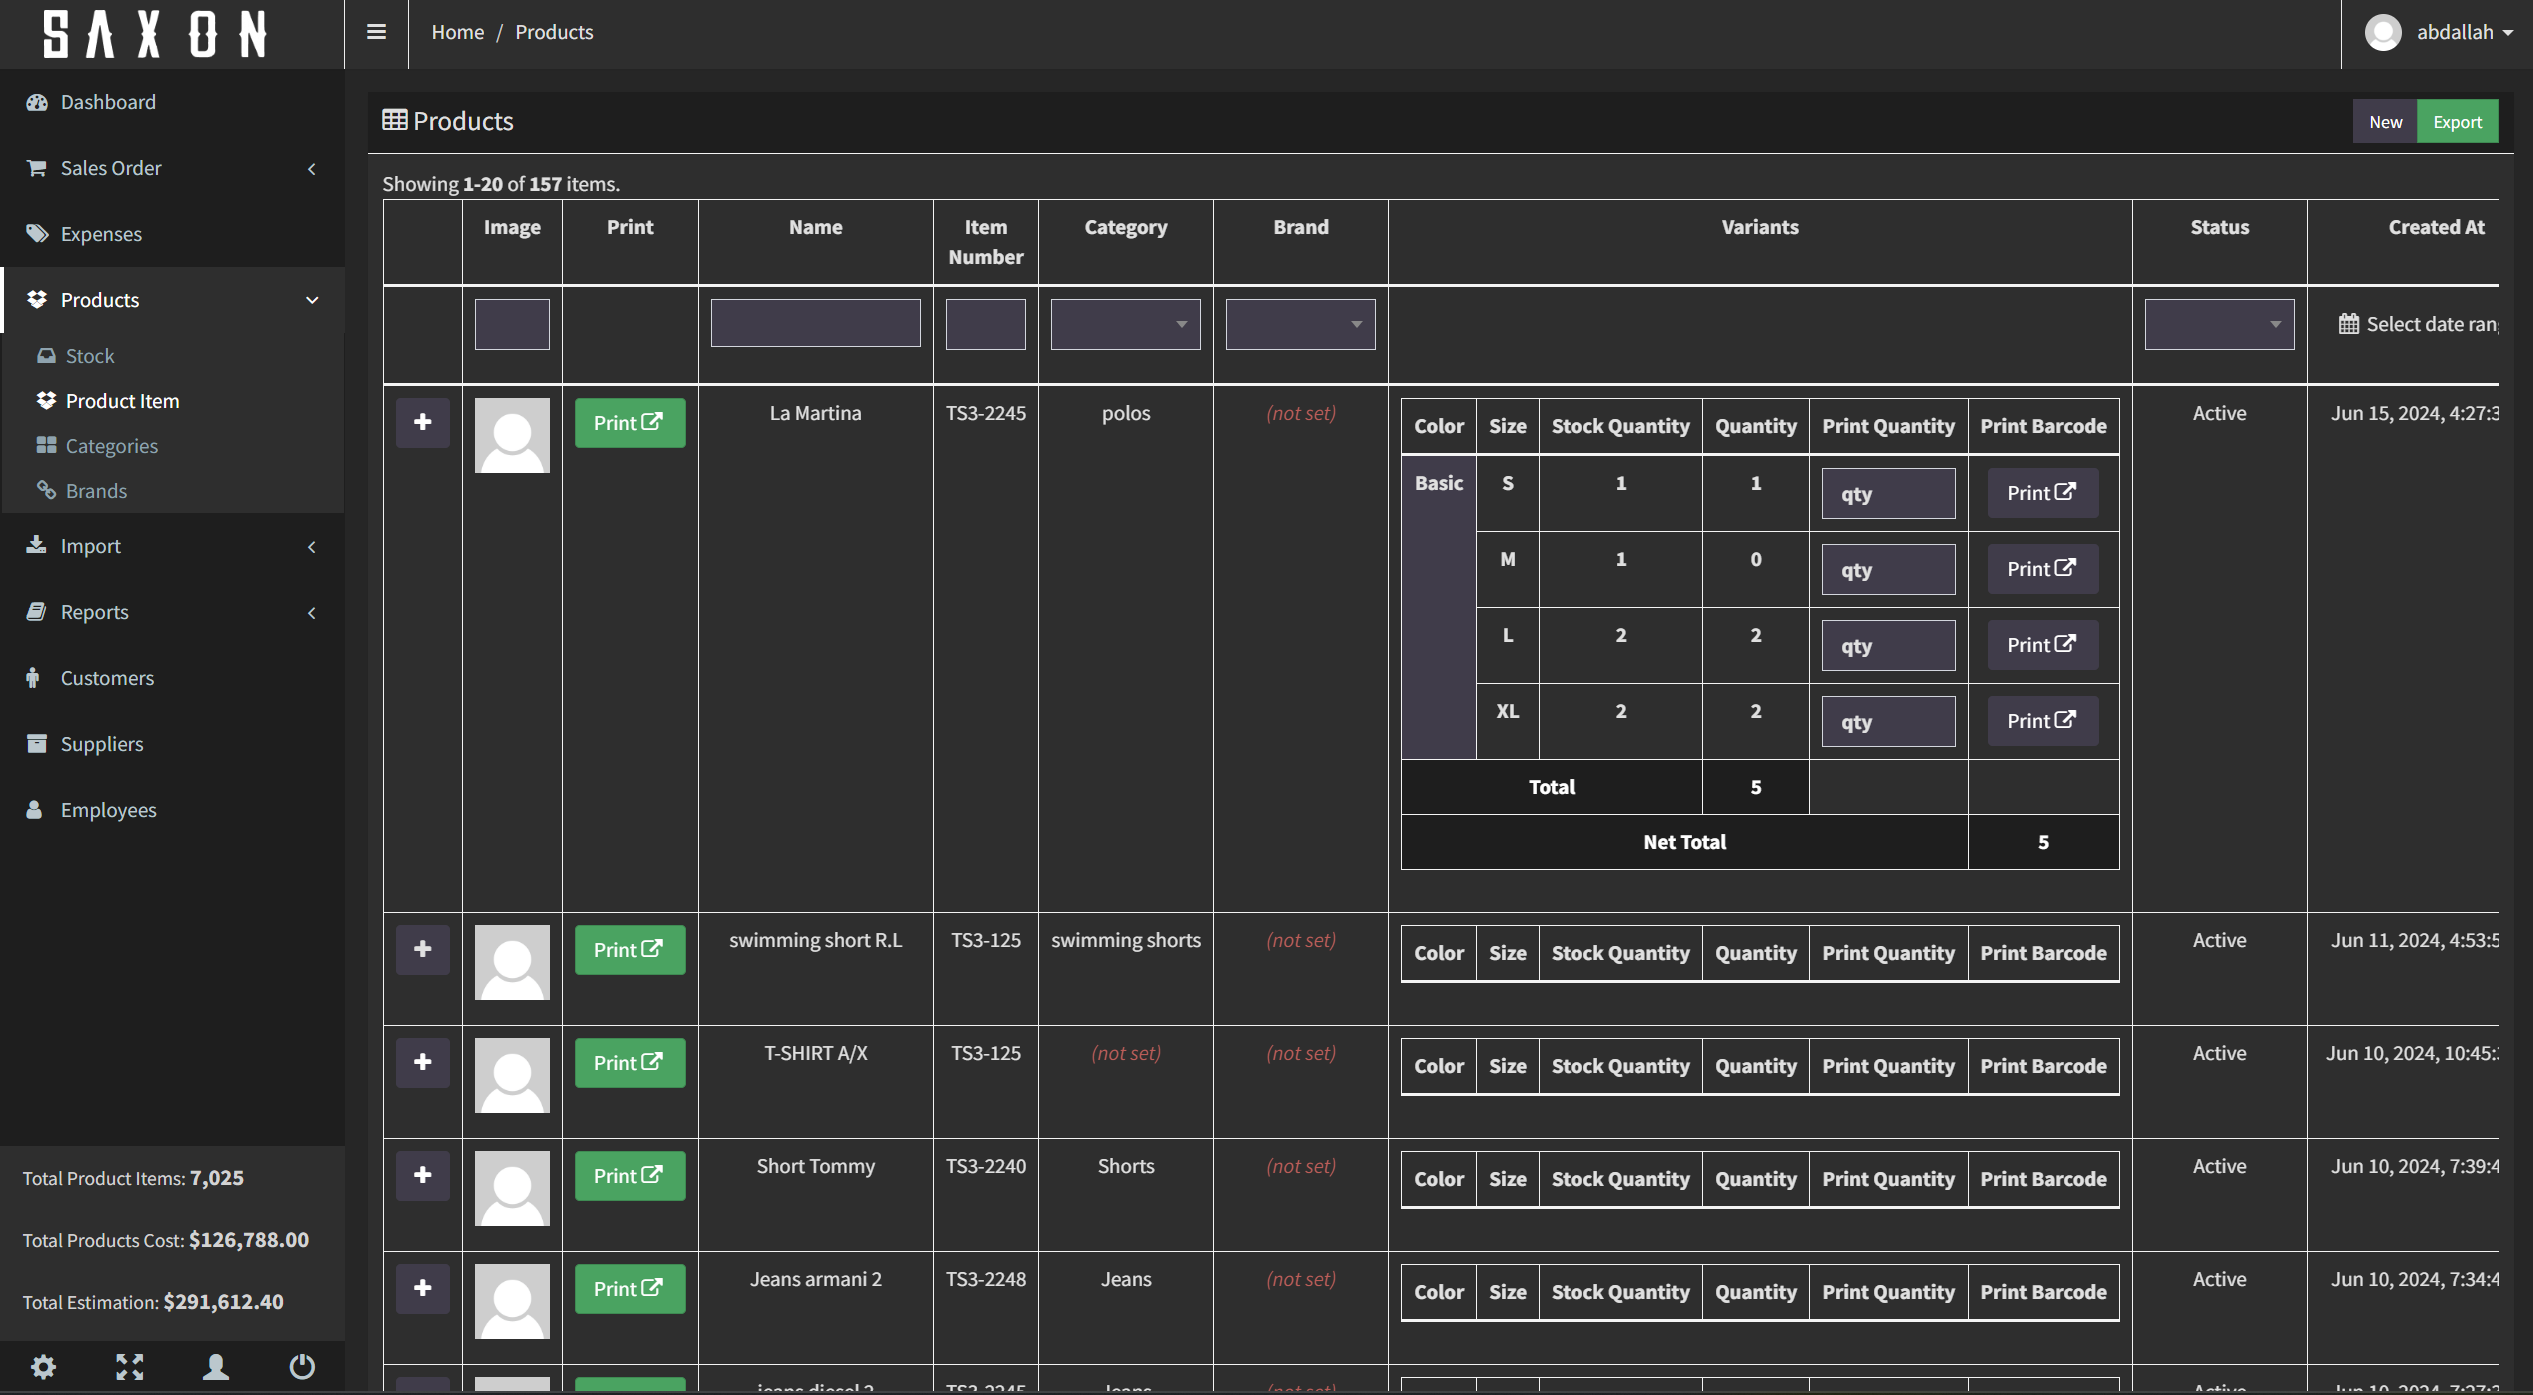
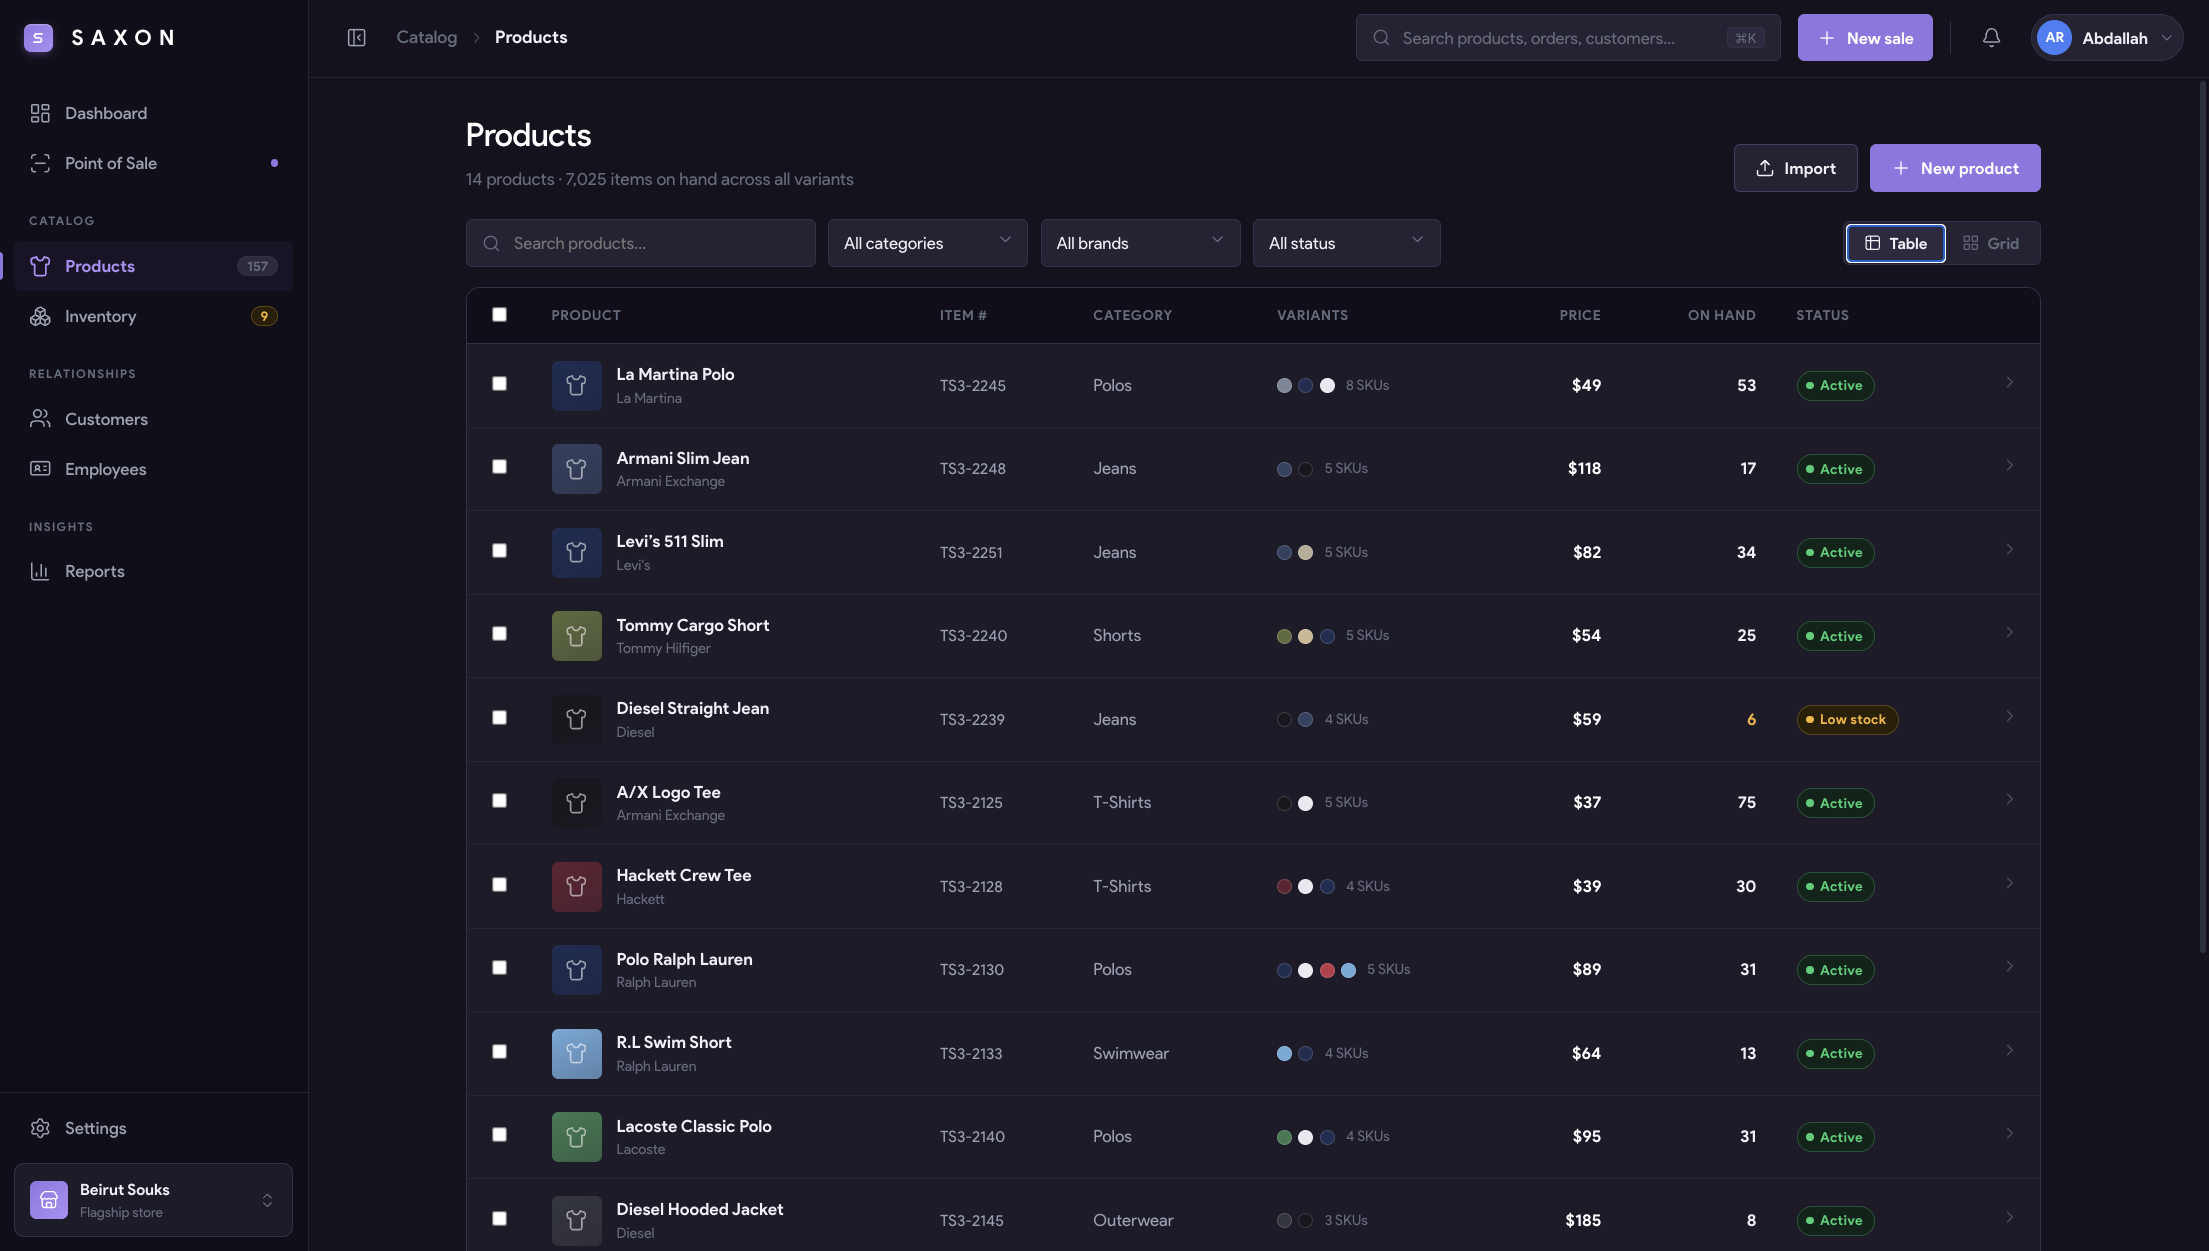
fix: added more images for Saxon project

diff --git a/src/app/globals.css b/src/app/globals.css
@@ -939,6 +939,10 @@ html[data-mode="light"] .topbar.scrolled { background: rgba(244,243,238,0.85); }
    intentional rather than as gaps. */
 .media-slide { background: var(--bg); }
 .media-slide img { width: 100%; height: 100%; object-fit: contain; object-position: center; }
+/* Light theme: the screenshots are dark-UI captures. A cream (`--bg`) letterbox
+   behind them looks harsh and washes the edges out, so give the bands a neutral
+   dark backdrop — the dark shot then sits flush against a matching surface. */
+html[data-mode="light"] .media-slide { background: #0d0f24; }
 
 .slide-caption {
   position: absolute;
@@ -958,6 +962,13 @@ html[data-mode="light"] .topbar.scrolled { background: rgba(244,243,238,0.85); }
   pointer-events: none;
 }
 .slide-caption .step { color: var(--accent); }
+/* Light theme: the caption pill must not stay dark-navy — flip it to a light,
+   blurred surface with dark text so it reads as part of the light UI. */
+html[data-mode="light"] .slide-caption {
+  background: rgba(244,243,238,0.88);
+  color: var(--fg);
+  box-shadow: 0 0 0 1px var(--hairline);
+}
 
 /* progress bar (auto-advance) */
 .media-progress {
@@ -1014,6 +1025,11 @@ html[data-mode="light"] .topbar.scrolled { background: rgba(244,243,238,0.85); }
   position: relative;
 }
 .device-stage.is-web { padding: var(--s-6); }
+/* Light theme: drop the purple radial glow — over a cream stage it haze-washes
+   the framed screenshot. A clean neutral elevation keeps the shot crisp. */
+html[data-mode="light"] .device-stage {
+  background: linear-gradient(180deg, var(--bg-elev-1), var(--bg-elev-2));
+}
 .device-stage .stage-label {
   position: absolute;
   top: 12px; left: 16px;

diff --git a/src/data/projects.ts b/src/data/projects.ts
@@ -46,10 +46,13 @@ export const PROJECTS: Project[] = [
     projectType: "web",
     urlLabel: "saxon · pos dashboard",
     shots: [
-      { src: "/assets/projects/saxon/home.png", label: "DASHBOARD"},
-      { src: "/assets/projects/saxon/transactions.png", label: "TRANSACTIONS"},
+      { src: "/assets/projects/saxon/dashboard.png", label: "DASHBOARD"},
+      { src: "/assets/projects/saxon/point-of-sale.png", label: "POINT OF SALE"},
       { src: "/assets/projects/saxon/products.png", label: "PRODUCTS"},
-      { src: "/assets/projects/saxon/barcodes.png", label: "BARCODES"},
+      { src: "/assets/projects/saxon/inventory.png", label: "INVENTORY"},
+      { src: "/assets/projects/saxon/reports.png", label: "REPORTS"},
+      { src: "/assets/projects/saxon/employees.png", label: "EMPLOYEES"},
+      { src: "/assets/projects/saxon/settings.png", label: "SETTINGS"},
     ],
   },
   {

diff --git a/src/components/motion/SmoothScroll.tsx b/src/components/motion/SmoothScroll.tsx
@@ -203,6 +203,11 @@ export default function SmoothScroll() {
         $$(".proj-visual").forEach((el) => {
           gsap.fromTo(el, { y: 50, opacity: 0.5 }, {
             y: -50, opacity: 1, ease: "none",
+            // Snap the scrubbed translate to whole pixels: a GPU-composited layer
+            // sitting at a fractional Y (e.g. -23.7px) resamples the bitmap and
+            // softens the screenshots. Rounding keeps the image pin-sharp while
+            // the parallax motion stays visually identical.
+            modifiers: { y: (v) => `${Math.round(parseFloat(v))}px` },
             scrollTrigger: { trigger: el, start: "top bottom", end: "bottom top", scrub: true },
           });
         });
